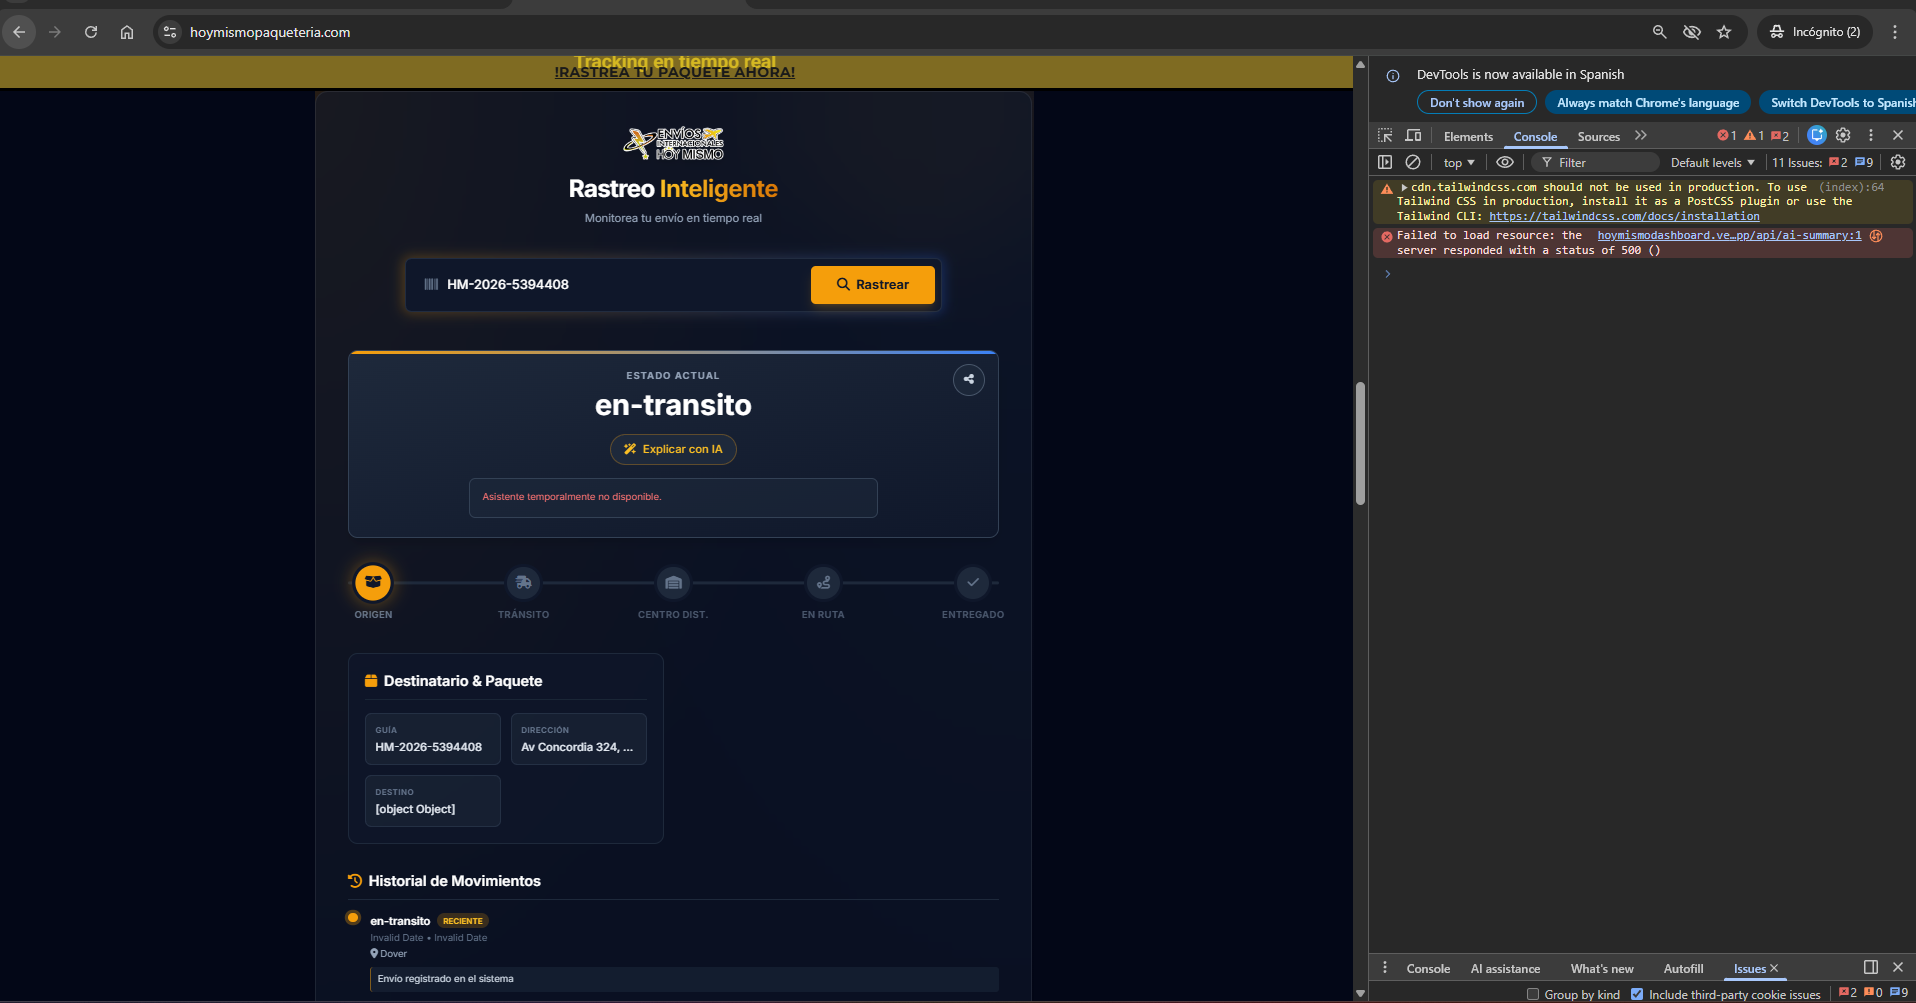
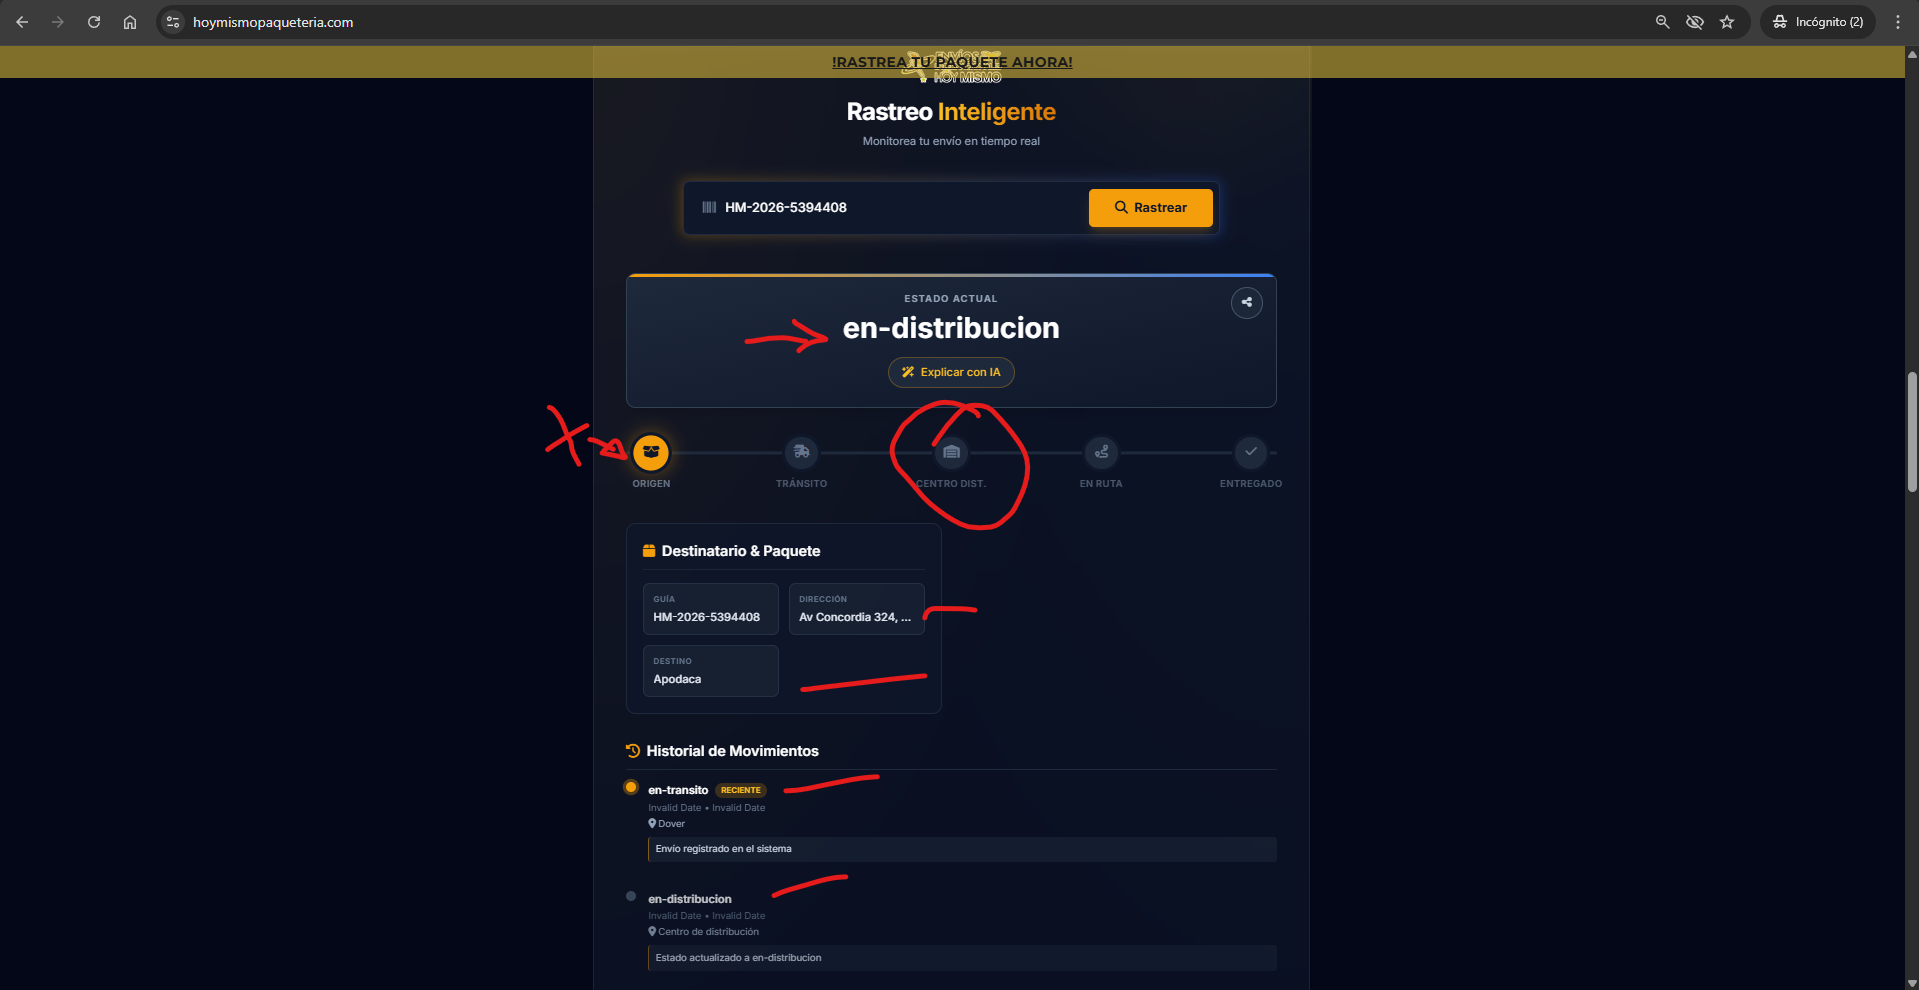
fix: resolve timestamp serialization and timeline status matching
- Convert Firestore timestamps to ISO strings in API response
- Update timeline data-status values to match database format
- Rename nested location objects to prevent field conflicts
- Improve error handling for missing premium feature data

🤖 Generated with [Claude Code](https://claude.com/claude-code)

diff --git a/artefacto-hostinger.html b/artefacto-hostinger.html
@@ -229,35 +229,35 @@
                 <div class="relative z-10 flex justify-between items-center w-full" id="timeline-steps-wrapper">
                     <!-- Los pasos se generan dinámicamente o se manipulan con JS -->
                     <!-- Ejemplo estático de estructura para referencia del JS -->
-                    <div class="timeline-step group relative flex flex-col items-center cursor-pointer" data-status="En Origen">
+                    <div class="timeline-step group relative flex flex-col items-center cursor-pointer" data-status="pendiente">
                         <div class="step-icon w-10 h-10 sm:w-12 sm:h-12 rounded-full bg-slate-800 border-4 border-slate-900 flex items-center justify-center text-slate-500 transition-all duration-300 z-10">
                             <i class="fa-solid fa-box-open text-sm sm:text-base"></i>
                         </div>
                         <span class="absolute top-14 text-[10px] sm:text-xs font-bold text-slate-500 uppercase tracking-wide opacity-70 group-hover:opacity-100 transition-opacity whitespace-nowrap">Origen</span>
                     </div>
 
-                    <div class="timeline-step group relative flex flex-col items-center cursor-pointer" data-status="En Tránsito">
+                    <div class="timeline-step group relative flex flex-col items-center cursor-pointer" data-status="en-transito">
                         <div class="step-icon w-10 h-10 sm:w-12 sm:h-12 rounded-full bg-slate-800 border-4 border-slate-900 flex items-center justify-center text-slate-500 transition-all duration-300 z-10">
                             <i class="fa-solid fa-truck-fast text-sm sm:text-base"></i>
                         </div>
                         <span class="absolute top-14 text-[10px] sm:text-xs font-bold text-slate-500 uppercase tracking-wide opacity-70 group-hover:opacity-100 transition-opacity whitespace-nowrap">Tránsito</span>
                     </div>
 
-                    <div class="timeline-step group relative flex flex-col items-center cursor-pointer" data-status="En Centro de Distribución">
+                    <div class="timeline-step group relative flex flex-col items-center cursor-pointer" data-status="en-distribucion">
                         <div class="step-icon w-10 h-10 sm:w-12 sm:h-12 rounded-full bg-slate-800 border-4 border-slate-900 flex items-center justify-center text-slate-500 transition-all duration-300 z-10">
                             <i class="fa-solid fa-warehouse text-sm sm:text-base"></i>
                         </div>
                         <span class="absolute top-14 text-[10px] sm:text-xs font-bold text-slate-500 uppercase tracking-wide opacity-70 group-hover:opacity-100 transition-opacity whitespace-nowrap">Centro Dist.</span>
                     </div>
 
-                    <div class="timeline-step group relative flex flex-col items-center cursor-pointer" data-status="En Ruta de Entrega">
+                    <div class="timeline-step group relative flex flex-col items-center cursor-pointer" data-status="en-aduana">
                         <div class="step-icon w-10 h-10 sm:w-12 sm:h-12 rounded-full bg-slate-800 border-4 border-slate-900 flex items-center justify-center text-slate-500 transition-all duration-300 z-10">
                             <i class="fa-solid fa-route text-sm sm:text-base"></i>
                         </div>
                         <span class="absolute top-14 text-[10px] sm:text-xs font-bold text-slate-500 uppercase tracking-wide opacity-70 group-hover:opacity-100 transition-opacity whitespace-nowrap">En Ruta</span>
                     </div>
 
-                    <div class="timeline-step group relative flex flex-col items-center cursor-pointer" data-status="Entregado">
+                    <div class="timeline-step group relative flex flex-col items-center cursor-pointer" data-status="entregado">
                         <div class="step-icon w-10 h-10 sm:w-12 sm:h-12 rounded-full bg-slate-800 border-4 border-slate-900 flex items-center justify-center text-slate-500 transition-all duration-300 z-10">
                             <i class="fa-solid fa-check text-sm sm:text-base"></i>
                         </div>

diff --git a/artefacto.html b/artefacto.html
@@ -229,35 +229,35 @@
                 <div class="relative z-10 flex justify-between items-center w-full" id="timeline-steps-wrapper">
                     <!-- Los pasos se generan dinámicamente o se manipulan con JS -->
                     <!-- Ejemplo estático de estructura para referencia del JS -->
-                    <div class="timeline-step group relative flex flex-col items-center cursor-pointer" data-status="En Origen">
+                    <div class="timeline-step group relative flex flex-col items-center cursor-pointer" data-status="pendiente">
                         <div class="step-icon w-10 h-10 sm:w-12 sm:h-12 rounded-full bg-slate-800 border-4 border-slate-900 flex items-center justify-center text-slate-500 transition-all duration-300 z-10">
                             <i class="fa-solid fa-box-open text-sm sm:text-base"></i>
                         </div>
                         <span class="absolute top-14 text-[10px] sm:text-xs font-bold text-slate-500 uppercase tracking-wide opacity-70 group-hover:opacity-100 transition-opacity whitespace-nowrap">Origen</span>
                     </div>
 
-                    <div class="timeline-step group relative flex flex-col items-center cursor-pointer" data-status="En Tránsito">
+                    <div class="timeline-step group relative flex flex-col items-center cursor-pointer" data-status="en-transito">
                         <div class="step-icon w-10 h-10 sm:w-12 sm:h-12 rounded-full bg-slate-800 border-4 border-slate-900 flex items-center justify-center text-slate-500 transition-all duration-300 z-10">
                             <i class="fa-solid fa-truck-fast text-sm sm:text-base"></i>
                         </div>
                         <span class="absolute top-14 text-[10px] sm:text-xs font-bold text-slate-500 uppercase tracking-wide opacity-70 group-hover:opacity-100 transition-opacity whitespace-nowrap">Tránsito</span>
                     </div>
 
-                    <div class="timeline-step group relative flex flex-col items-center cursor-pointer" data-status="En Centro de Distribución">
+                    <div class="timeline-step group relative flex flex-col items-center cursor-pointer" data-status="en-distribucion">
                         <div class="step-icon w-10 h-10 sm:w-12 sm:h-12 rounded-full bg-slate-800 border-4 border-slate-900 flex items-center justify-center text-slate-500 transition-all duration-300 z-10">
                             <i class="fa-solid fa-warehouse text-sm sm:text-base"></i>
                         </div>
                         <span class="absolute top-14 text-[10px] sm:text-xs font-bold text-slate-500 uppercase tracking-wide opacity-70 group-hover:opacity-100 transition-opacity whitespace-nowrap">Centro Dist.</span>
                     </div>
 
-                    <div class="timeline-step group relative flex flex-col items-center cursor-pointer" data-status="En Ruta de Entrega">
+                    <div class="timeline-step group relative flex flex-col items-center cursor-pointer" data-status="en-aduana">
                         <div class="step-icon w-10 h-10 sm:w-12 sm:h-12 rounded-full bg-slate-800 border-4 border-slate-900 flex items-center justify-center text-slate-500 transition-all duration-300 z-10">
                             <i class="fa-solid fa-route text-sm sm:text-base"></i>
                         </div>
                         <span class="absolute top-14 text-[10px] sm:text-xs font-bold text-slate-500 uppercase tracking-wide opacity-70 group-hover:opacity-100 transition-opacity whitespace-nowrap">En Ruta</span>
                     </div>
 
-                    <div class="timeline-step group relative flex flex-col items-center cursor-pointer" data-status="Entregado">
+                    <div class="timeline-step group relative flex flex-col items-center cursor-pointer" data-status="entregado">
                         <div class="step-icon w-10 h-10 sm:w-12 sm:h-12 rounded-full bg-slate-800 border-4 border-slate-900 flex items-center justify-center text-slate-500 transition-all duration-300 z-10">
                             <i class="fa-solid fa-check text-sm sm:text-base"></i>
                         </div>

diff --git a/app/api/track/[trackingNumber]/route.ts b/app/api/track/[trackingNumber]/route.ts
@@ -32,12 +32,20 @@ export async function GET(
     const docData = querySnapshot.docs[0].data();
     
     // Mapear el trackingHistory al formato que espera el frontend
-    const historialMapeado = (docData.trackingHistory || []).map((event: any) => ({
-      status: event.status || event.description || 'Actualización',
-      timestamp: event.date || event.timestamp,
-      location: event.location || '',
-      notes: event.description || event.notes || ''
-    }));
+    const historialMapeado = (docData.trackingHistory || []).map((event: any) => {
+      // Convertir timestamp a ISO string para que el frontend lo procese
+      let timestampValue = event.date || event.timestamp;
+      if (timestampValue && typeof timestampValue.toDate === 'function') {
+        timestampValue = timestampValue.toDate().toISOString();
+      }
+
+      return {
+        status: event.status || event.description || 'Actualización',
+        timestamp: timestampValue,
+        location: event.location || '',
+        notes: event.description || event.notes || ''
+      };
+    });
 
     // Mapeo de datos de Firestore al formato que espera tu HTML
     const responseData = {
